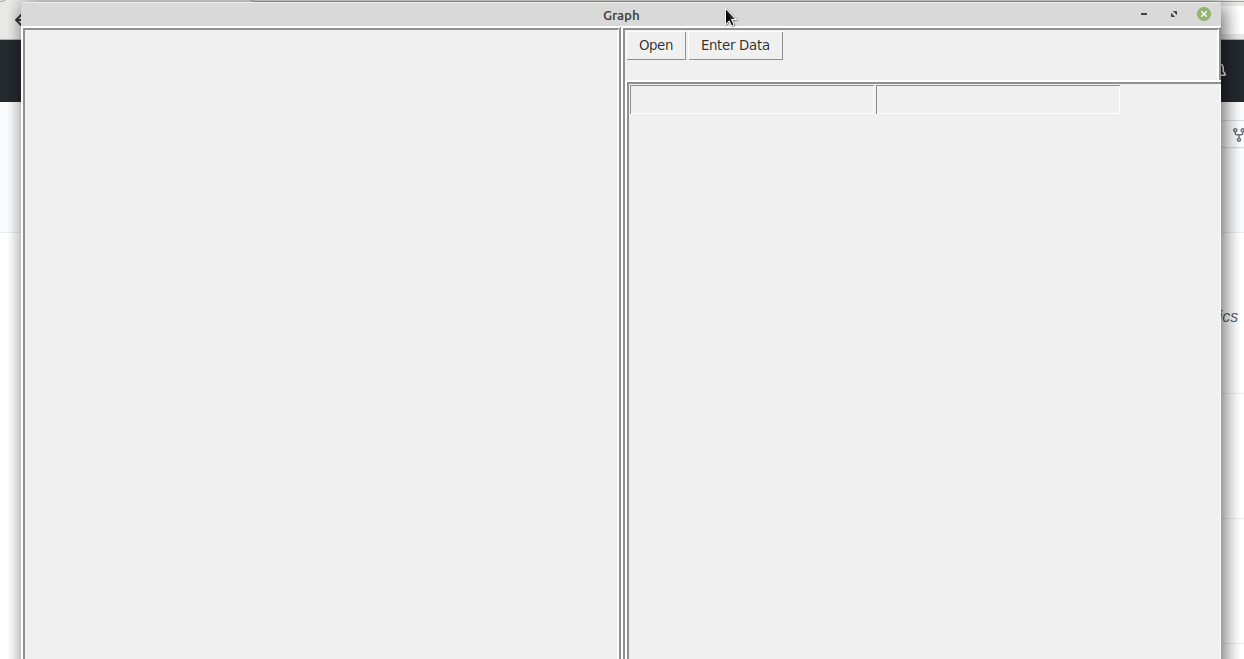
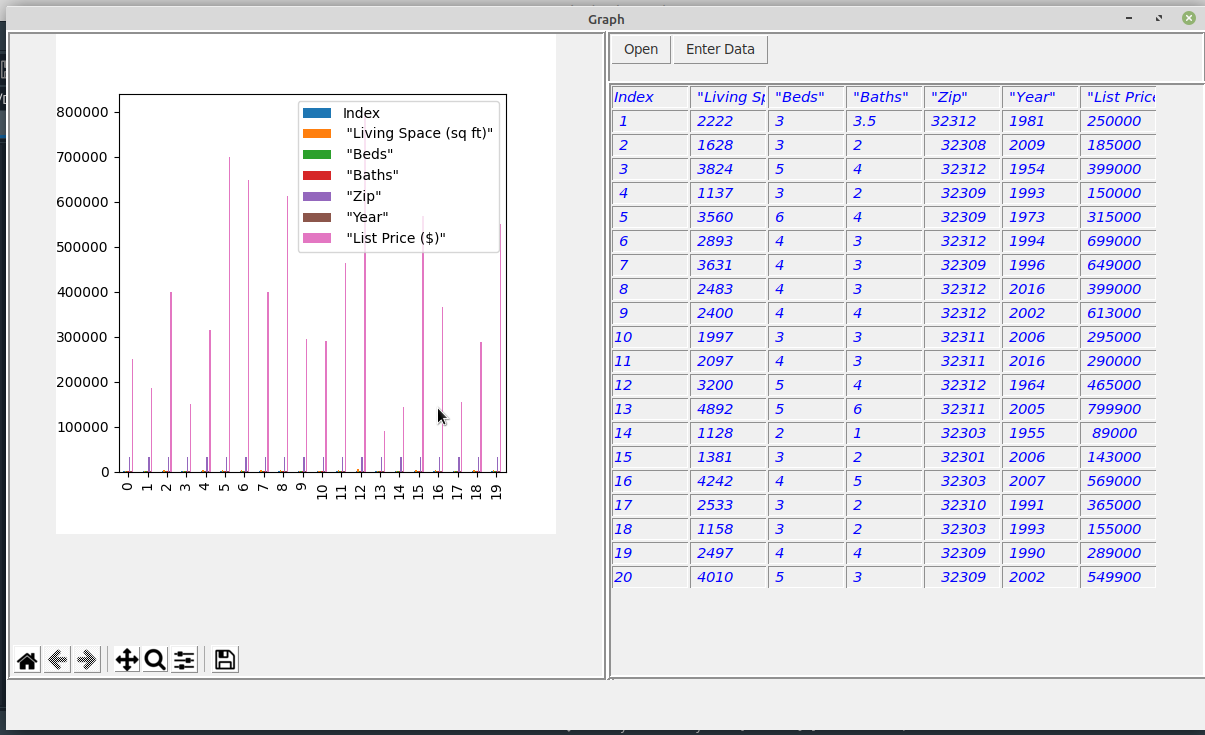
Added function too display the data

diff --git a/main.py b/main.py
@@ -1,9 +1,11 @@
 from tkinter import *
 from tkinter import ttk
+from tkinter import filedialog as fd
 from tkinter.filedialog import askopenfilename
 import pandas as pd
 from matplotlib.figure import Figure
 from matplotlib.backends.backend_tkagg import FigureCanvasTkAgg, NavigationToolbar2Tk
+from csv import reader
 
 root = Tk()
 
@@ -11,6 +13,7 @@ root.geometry("1200x700")
 root.title("Graph")
 
 data_size = 0
+data_row =0
 
 
 def open_file():
@@ -19,7 +22,7 @@ def open_file():
         for widget in graph_frame.winfo_children():
             widget.destroy()
 
-    file = askopenfilename()
+    file = fd.askopenfilename()
     graph_data = pd.read_csv(file)
     print(len(graph_data))
     global data_size
@@ -33,20 +36,36 @@ def open_file():
     toolbar = NavigationToolbar2Tk(canvas, graph_frame)
     toolbar.update()
     canvas.get_tk_widget().pack()
+    print(file)
+    #printing the table when a csv file is open
+    display_data(table_frame,file)
+    
 
 
 def enter_data():
     print('Inside Enter Data')
-    print(data_size)
+    
 
-
-def display_data():
-    print('Inside Display data')
-    print(data_size)
-    for i in range(data_size):
-        entries = Entry(data_frame, fg='blue', font=('Arial', 16, 'bold'))
-        for j in 1:
-            entries.grid(row=i, column=j)
+#function to display data in table format
+def display_data(frame,name):
+    with open(name,'r') as read_obj:
+        #reading as ab object
+    	csv_reader = reader(read_obj)
+    	tot_row=0
+        #reading each row of the csv file
+    	for row in (csv_reader):
+            #so that row can be set to 0,1,2,3...and not 1,2,3,4,5
+            #since adding row+1 at the end of the second for loop 
+            #getting indentation error 
+    		tot_row=tot_row+1
+    		tot_col=0;
+            #taking one value of each row at a time     		
+    		for data in row:
+    			e = Entry(frame, width=8,fg='blue',font=('Ariel',11,'italic'))
+    			e.grid(row=(tot_row-1),column=tot_col)
+    			e.insert(END,data)
+    			tot_col=tot_col+1
+           
 
 
 
@@ -64,11 +83,15 @@ info_frame.place(x=600, y=0, width=600, height=650)
 data_frame = Frame(info_frame, bd=4, relief=RIDGE)
 data_frame.place(x=0, y=50, width=599, height=600)
 
-entry1 = Entry(data_frame, fg='blue', font=('Arial', 16, 'bold'))
-entry1.grid(row=0, column=0)
+#Frame to hold table data of the given csv file 
+table_frame= Frame(root, bd=4, relief=RIDGE)
+table_frame.place(x=601, y=51, width=600, height=598) 
 
-entry2 = Entry(data_frame, fg='blue', font=('Arial', 16, 'bold'))
-entry2.grid(row=0, column=1)
+#entry1 = Entry(data_frame, fg='blue', font=('Arial', 16, 'bold'))
+#entry1.grid(row=0, column=0)
+
+#entry2 = Entry(data_frame, fg='blue', font=('Arial', 16, 'bold'))
+#entry2.grid(row=0, column=1)
 
 
 button1 = Button(info_frame, text='Open', command=open_file)
@@ -76,6 +99,8 @@ button1.grid(row=0, column=0)
 
 button2 = Button(info_frame, text='Enter Data', command=enter_data)
 button2.grid(row=0, column=1)
+
+#t= display_data(table_frame)
 
 
 root.mainloop()
